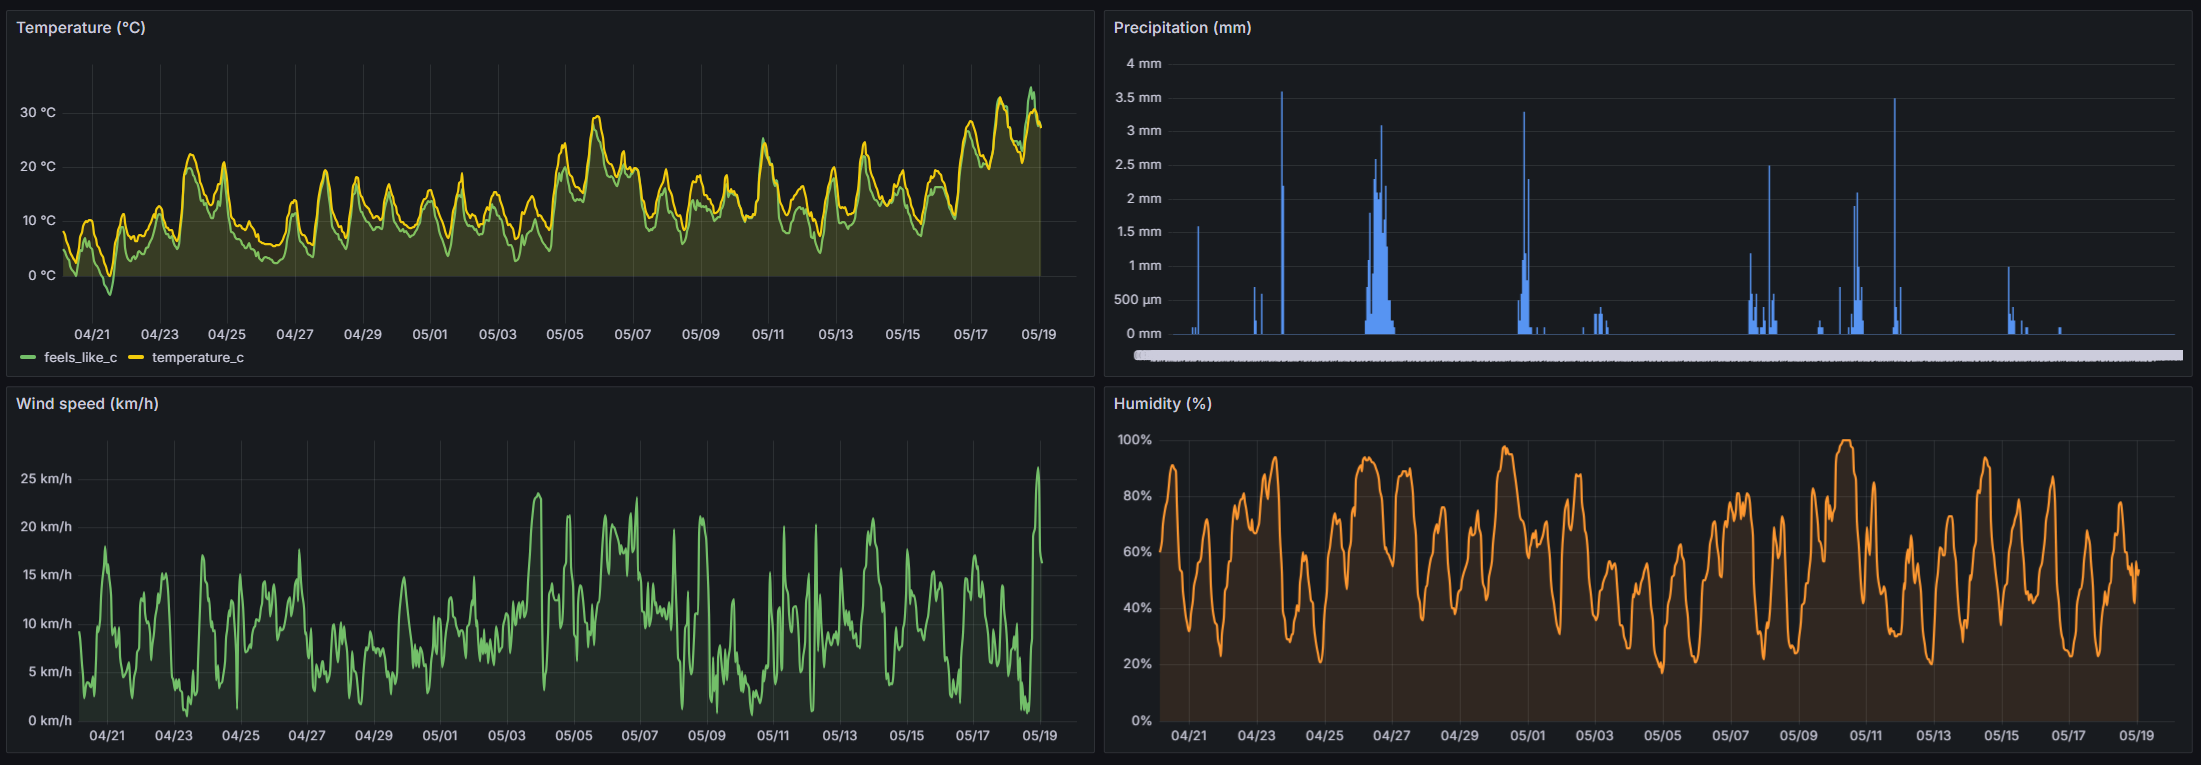
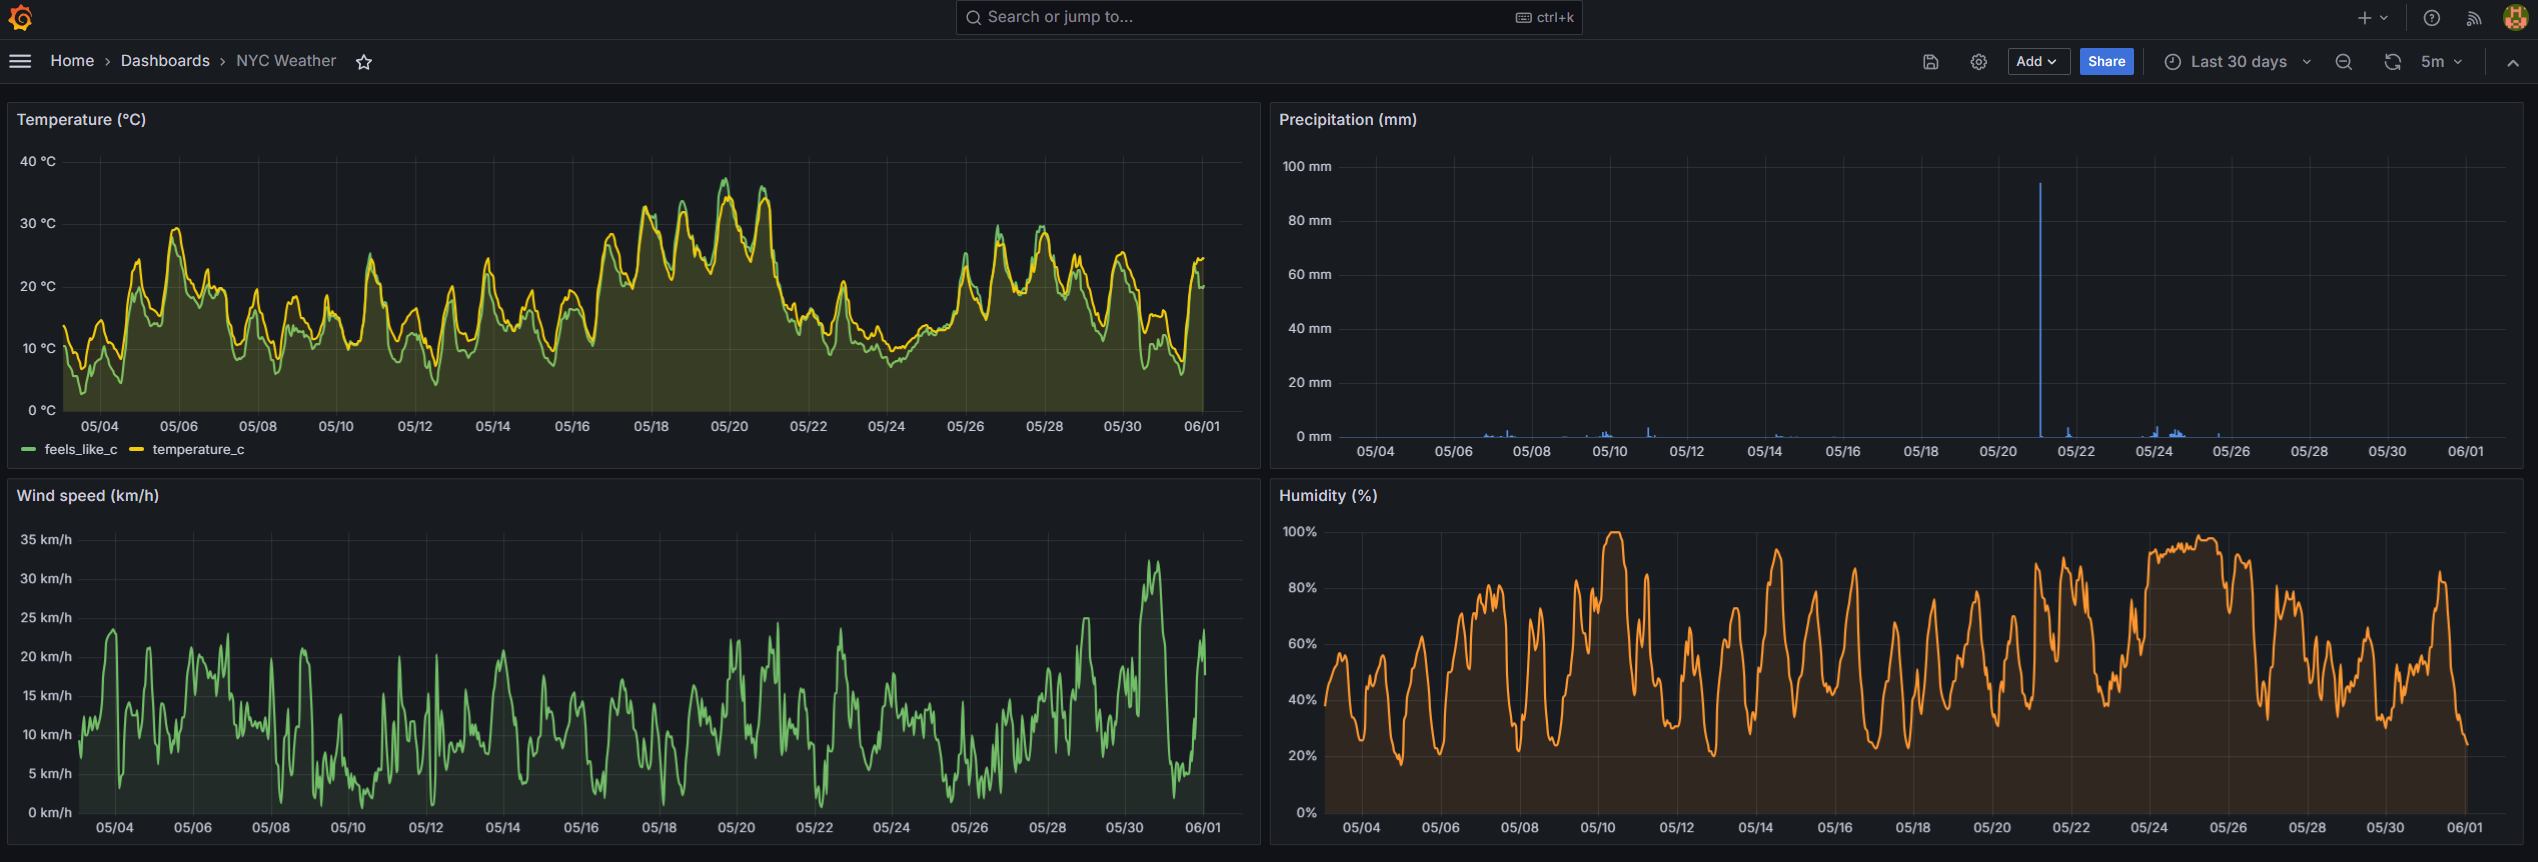
docs: add Power Automate screenshots, refresh Grafana/Telegram

diff --git a/docs/how_to_run.md b/docs/how_to_run.md
@@ -249,9 +249,9 @@ Wall-clock end-to-end for the 6-year backfill: first bronze activity starts 18:3
 
 ---
 
-## Step 7 — Phase 7 External Stack (Docker Compose)
+## Step 7 — External Stack (Docker Compose)
 
-Phase 7 ships a local Docker Compose stack with four responsibilities:
+The external stack is a local Docker Compose deployment with four responsibilities:
 - **`weather_sync`** — periodically copies `silver_weather` from Fabric SQL endpoint to InfluxDB
 - **InfluxDB + Grafana** — time-series storage + dashboard for weather data
 - **Telegram bot** — on-demand `/report` runs Great Expectations on Silver + Gold and replies with a summary
@@ -335,7 +335,7 @@ Bot smoke test:
 2. Send `/start` → bot replies with welcome text
 3. Send `/report` → bot replies "Running DQ checks, please wait..." → ~30-60 sec later edits that message to show the full report wrapped in a `<pre>` block
 
-![Telegram `/report` output — 56/56 expectations passing across 12 Silver + Gold tables (2026-05-20)](img/telegram_report.png)
+![Telegram `/report` output — 57/57 expectations passing across 12 Silver + Gold tables](img/telegram_report.png)
 
 The bot keeps running as long as the `app-bot` container is up (`restart: unless-stopped`). Logs: `make logs-bot`.
 
@@ -354,7 +354,12 @@ The third external integration exports a monthly Gold slice to Dropbox; a Power 
    - **Compose** → assemble the HTML body (title, KPI cards, table with inline styles injected via `replace()`)
    - **Gmail — Send email (V2)** → subject carries the month; body = Compose output. Gmail must use a **bring-your-own Google OAuth client** (the default shared app can't be combined with the Dropbox connector); register one for free at [console.cloud.google.com](https://console.cloud.google.com) with redirect URI `https://global.consent.azure-apim.net/redirect/gmail`.
    - **Notifications — Send me a mobile notification** → install the Power Automate phone app, signed in with the same account.
+
+   ![Power Automate flow — Dropbox trigger → Get content → Parse JSON → Select → Create HTML table → Compose → Gmail → mobile push](img/power_automate_flow.png)
+
 4. **Demo** — `make export-json` → file lands in Dropbox → flow runs → e-mail in Gmail → push on the phone.
+
+![Generated monthly report e-mail — KPI header (trips / revenue / active zones) + top-10 pickup-zones table](img/power_automate_email.png)
 
 ### Useful Make targets
 
@@ -373,7 +378,7 @@ make export-json     # one-shot Gold monthly slice → Dropbox (Power Automate t
 
 ---
 
-## Step 8 — Schedule Automation (Phase 6)
+## Step 8 — Schedule Automation
 
 `pl_master_orchestrator` runs on a twice-daily schedule configured directly in Fabric UI.
 
